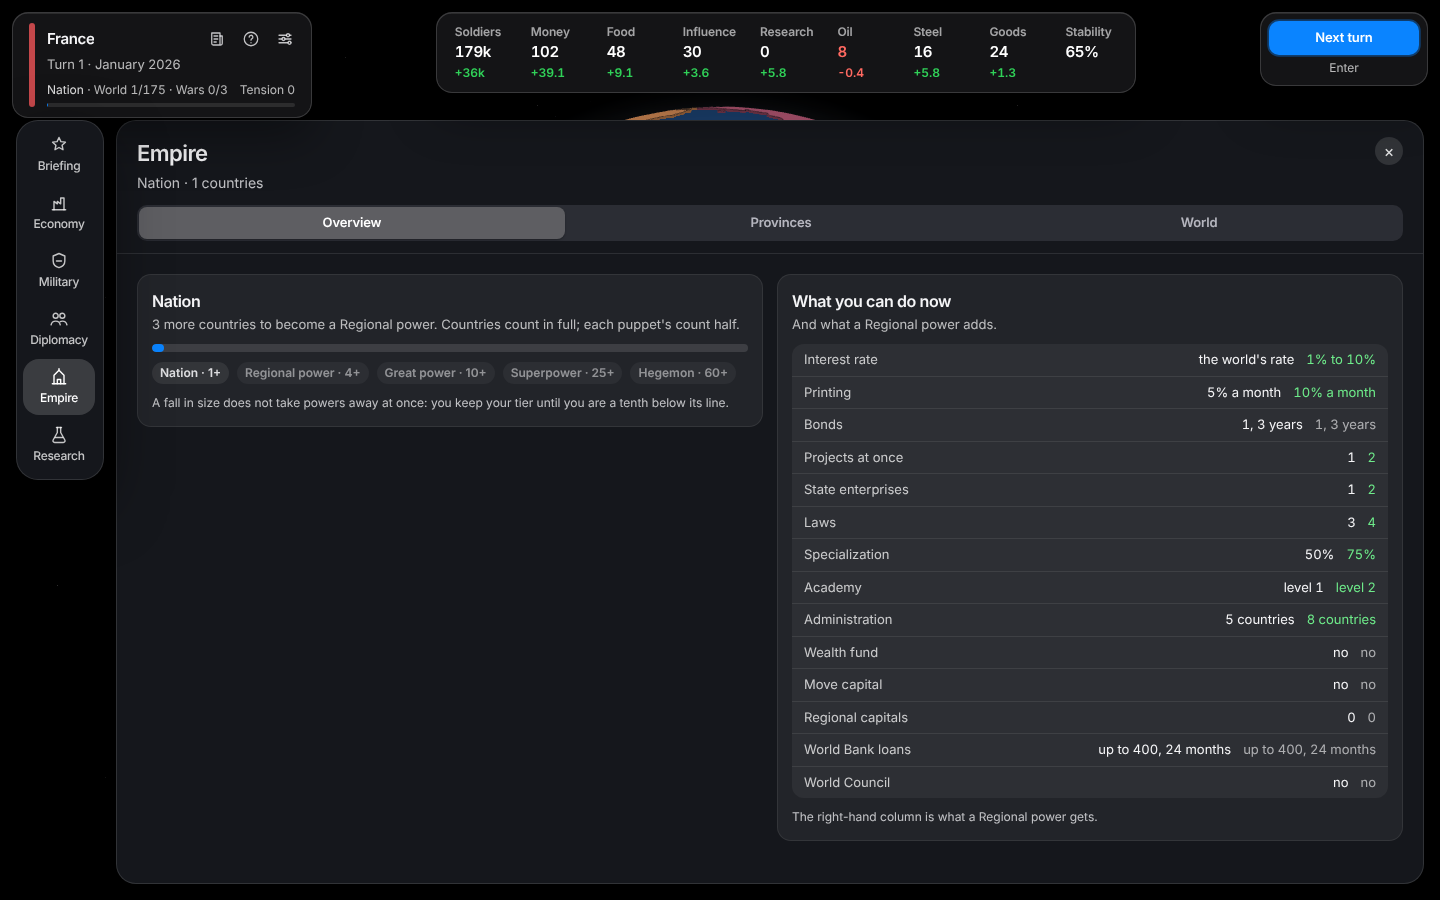
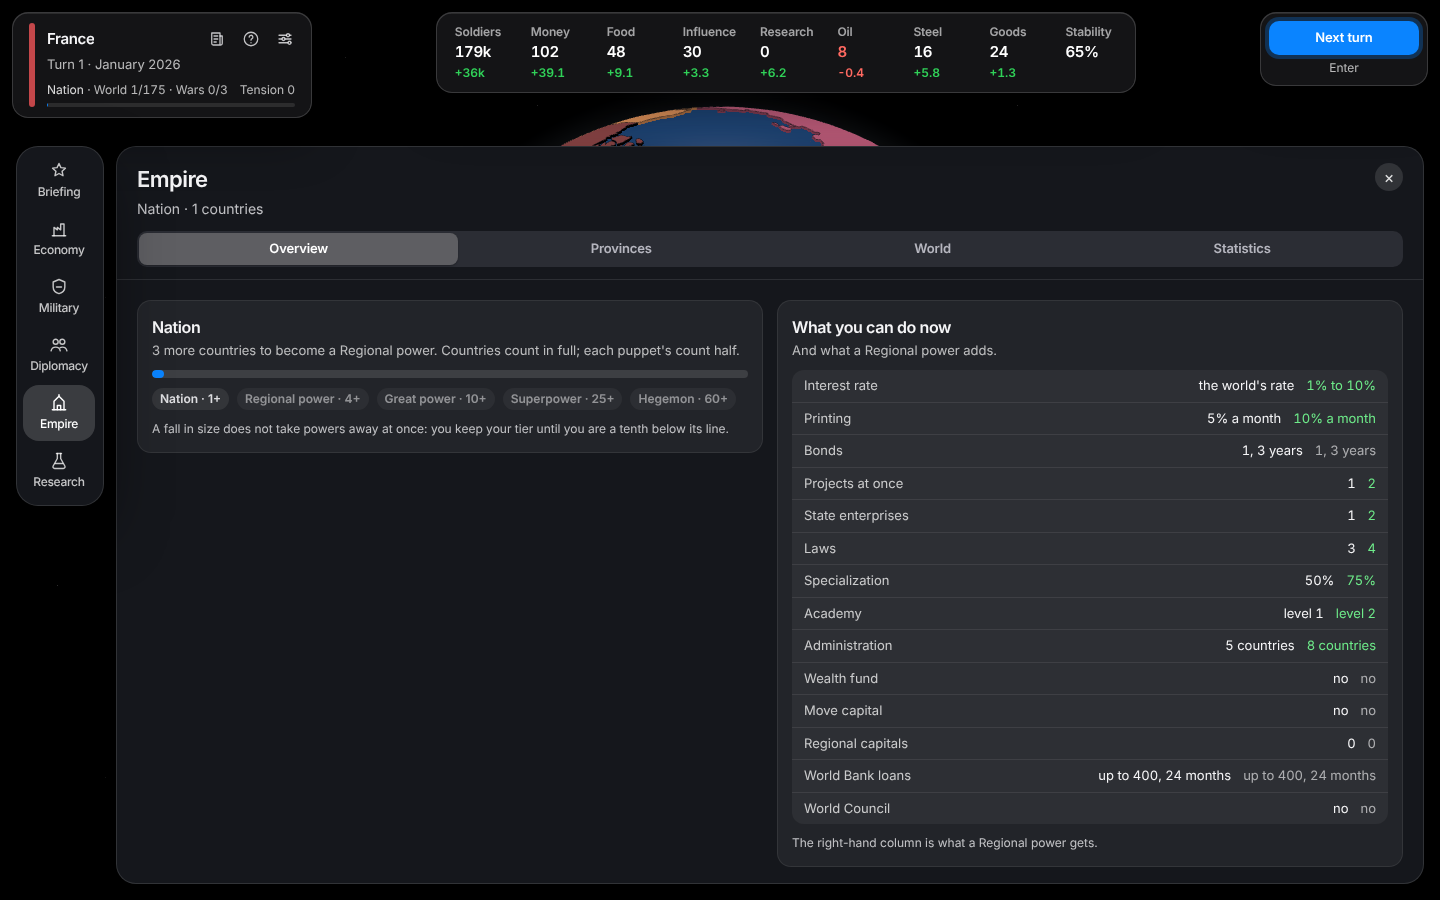
feat(ux): news centre, market quantities, train in batches, measured top bar, first-game help, toasts you can dismiss
- News: filter by kind, search, grouped by month.
- Market: any amount, fill to three months, steel on auto-buy.
- Train 1, 5 or 10 of a unit at once.
- The top bar's real height is measured, so desks sit right on any screen.
- The first game opens on how it works. Enter no longer ends the turn when a disclosure, tab or row has focus.
- Toasts have a close button.

Claude-Session: https://claude.ai/code/session_016d7Hru1WtnyadQAg5LsdtD

diff --git a/src/ui/economy/MarketTab.tsx b/src/ui/economy/MarketTab.tsx
@@ -1,3 +1,4 @@
+import { useState } from 'react'
 import { MATERIALS } from '../../data/deposits'
 import { MARKET } from '../../data/unitTypes'
 import { sanctionersOf } from '../../engine/helpers'
@@ -26,7 +27,6 @@ export function MarketTab() {
   const room = tradeRoom(game, map, player.id)
   const sanctioned = sanctionersOf(game, player.id)
   const net: Record<string, number> = { food: econ.netFood, oil: econ.netOil, steel: econ.steelProduction, goods: econ.netGoods }
-  const stock = (r: TradeResource) => player.resources[r as 'food']
 
   const toggleAuto = (r: TradeResource) => {
     const on = player.autoBuy.includes(r)
@@ -49,37 +49,59 @@ export function MarketTab() {
         <p className="text-[13px] text-white/65">The market keeps {Math.round((player.laws.includes('free_trade') ? MATERIALS.freeTradeSpread : MATERIALS.spread) * 100)}% of each trade.</p>
       </Card>
 
-      {MARKET_GOODS.map((r) => {
-        const have = stock(r)
-        const per = net[r] ?? 0
-        const buy = (amount: number) => ({ type: 'marketBuy' as const, nationId: player.id, resource: r, amount })
-        const sell = (amount: number) => ({ type: 'marketSell' as const, nationId: player.id, resource: r, amount })
-        return (
-          <Card key={r} title={MARKET[r].name} hint={NOTES[r]} right={<span className="text-[13px] text-white/75 tabular-nums">price {prices[r].toFixed(2)}</span>}>
-            <div className="flex items-baseline justify-between text-[14px]">
-              <span>
-                You have <strong className="tabular-nums">{have.toFixed(0)}</strong>
-              </span>
-              <span className={`tabular-nums ${per < 0 ? 'text-[#ff8a84]' : 'text-white/75'}`}>{signed(per)} a month</span>
-            </div>
-            <div className="grid grid-cols-2 gap-2">
-              <OrderButton order={buy(5)} label="Buy 5" cost={`${marketValue(game, player, r, 5, 'buy', prices).toFixed(0)} money`} tone="btn-primary" />
-              <OrderButton order={buy(20)} label="Buy 20" cost={`${marketValue(game, player, r, 20, 'buy', prices).toFixed(0)} money`} tone="btn-primary" />
-              <OrderButton order={sell(5)} label="Sell 5" cost={`+${marketValue(game, player, r, 5, 'sell', prices).toFixed(0)} money`} />
-              <OrderButton order={sell(20)} label="Sell 20" cost={`+${marketValue(game, player, r, 20, 'sell', prices).toFixed(0)} money`} />
-            </div>
-            {r !== 'steel' && (
-              <label className="flex items-center justify-between gap-3 text-[14px]">
-                <span>
-                  Buy it automatically when I run short
-                  <span className="block text-[12px] text-white/65">Keeps about {MATERIALS.autoBuyMonths} months in stock. Never spends your last 15 money.</span>
-                </span>
-                <input type="checkbox" checked={player.autoBuy.includes(r)} onChange={() => toggleAuto(r)} aria-label={`Buy ${MARKET[r].name} automatically`} />
-              </label>
-            )}
-          </Card>
-        )
-      })}
+      {MARKET_GOODS.map((r) => (
+        <MarketRow key={r} r={r} prices={prices} room={room} per={net[r] ?? 0} toggleAuto={toggleAuto} />
+      ))}
     </section>
+  )
+}
+
+function MarketRow({ r, prices, room, per, toggleAuto }: { r: TradeResource; prices: ReturnType<typeof marketPrices>; room: number; per: number; toggleAuto: (r: TradeResource) => void }) {
+  const view = usePlayerView()!
+  const { game, player, econ } = view
+  const [amount, setAmount] = useState(10)
+  const have = player.resources[r as 'food']
+  const buy = (n: number) => ({ type: 'marketBuy' as const, nationId: player.id, resource: r, amount: n })
+  const sell = (n: number) => ({ type: 'marketSell' as const, nationId: player.id, resource: r, amount: n })
+  // Months of use the stock covers, and how much would fill it to three months.
+  const use = r === 'food' ? econ.foodConsumption : r === 'oil' ? econ.oilUse : r === 'goods' ? econ.goodsUse : 0
+  const toThree = Math.max(0, Math.ceil(use * 3 - have))
+  const custom = Math.max(1, Math.min(9999, Math.floor(amount) || 1))
+  return (
+    <Card title={MARKET[r].name} hint={NOTES[r]} right={<span className="text-[13px] text-white/75 tabular-nums">price {prices[r].toFixed(2)}</span>}>
+      <div className="flex items-baseline justify-between text-[14px]">
+        <span>
+          You have <strong className="tabular-nums">{have.toFixed(0)}</strong>
+          {use > 0 && <span className="text-white/60"> · {(have / use).toFixed(1)} months of use</span>}
+        </span>
+        <span className={`tabular-nums ${per < 0 ? 'text-[#ff8a84]' : 'text-white/75'}`}>{signed(per)} a month</span>
+      </div>
+      <div className="grid grid-cols-2 gap-2">
+        <OrderButton order={buy(5)} label="Buy 5" cost={`${marketValue(game, player, r, 5, 'buy', prices).toFixed(0)} money`} tone="btn-primary" />
+        <OrderButton order={buy(20)} label="Buy 20" cost={`${marketValue(game, player, r, 20, 'buy', prices).toFixed(0)} money`} tone="btn-primary" />
+        <OrderButton order={sell(5)} label="Sell 5" cost={`+${marketValue(game, player, r, 5, 'sell', prices).toFixed(0)} money`} />
+        <OrderButton order={sell(20)} label="Sell 20" cost={`+${marketValue(game, player, r, 20, 'sell', prices).toFixed(0)} money`} />
+      </div>
+      <div className="flex items-center gap-2">
+        <label className="flex items-center gap-2 text-[13px] text-white/75">
+          Amount
+          <input type="number" min={1} max={9999} step={1} className="field w-24 px-2 py-1.5 text-[14px] tabular-nums" value={amount} onChange={(e) => setAmount(+e.target.value)} aria-label={`Amount of ${MARKET[r].name} to trade`} />
+        </label>
+        <OrderButton order={buy(custom)} label={`Buy ${custom}`} cost={`${marketValue(game, player, r, custom, 'buy', prices).toFixed(0)}`} tone="btn-primary" className="flex-1" />
+        <OrderButton order={sell(custom)} label={`Sell ${custom}`} cost={`+${marketValue(game, player, r, custom, 'sell', prices).toFixed(0)}`} className="flex-1" />
+      </div>
+      {toThree > 0 && (
+        <OrderButton order={buy(Math.min(toThree, Math.floor(room)))} label={`Fill to 3 months`} effect={`${Math.min(toThree, Math.floor(room))} of ${toThree} that would be needed (trade room ${room.toFixed(0)})`} />
+      )}
+      <label className="flex items-center justify-between gap-3 text-[14px]">
+        <span>
+          Buy it automatically when I run short
+          <span className="block text-[12px] text-white/65">
+            {r === 'steel' ? `Keeps ${MATERIALS.steelReserve} in store for building and training.` : `Keeps about ${MATERIALS.autoBuyMonths} months in stock.`} Never spends your last 15 money, and honors an embargo.
+          </span>
+        </span>
+        <input type="checkbox" checked={player.autoBuy.includes(r)} onChange={() => toggleAuto(r)} aria-label={`Buy ${MARKET[r].name} automatically`} />
+      </label>
+    </Card>
   )
 }

diff --git a/src/ui/SidePanels.tsx b/src/ui/SidePanels.tsx
@@ -22,12 +22,35 @@ const KIND_COLOR: Record<LogKind, string> = {
   diplomacy: 'text-sky-200',
 }
 
+const NEWS_FILTERS: [string, string, LogKind[] | null][] = [
+  ['all', 'All', null],
+  ['war', 'War', ['war', 'battle']],
+  ['diplomacy', 'Diplomacy', ['diplomacy']],
+  ['economy', 'Economy', ['economy', 'tech']],
+  ['events', 'Events', ['event', 'news', 'spy']],
+]
+
+/** The news: your nation's or the world's, by kind, searchable, grouped by month. */
 export function LogPanel() {
   const view = usePlayerView()
   const [scope, setScope] = useState<'mine' | 'world'>('mine')
+  const [kind, setKind] = useState('all')
+  const [query, setQuery] = useState('')
   if (!view) return null
   const { game, player } = view
-  const entries = game.log.filter((l) => scope === 'world' || l.nations.includes(player.id)).slice(-120).reverse()
+  const live = isLive(game)
+  const kinds = NEWS_FILTERS.find((f) => f[0] === kind)?.[2] ?? null
+  const q = query.trim().toLowerCase()
+  const entries = game.log
+    .filter((l) => (scope === 'world' || l.nations.includes(player.id)) && (!kinds || kinds.includes(l.kind)) && (!q || l.text.toLowerCase().includes(q)))
+    .slice(-200)
+    .reverse()
+  const groups: { turn: number; items: typeof entries }[] = []
+  for (const l of entries) {
+    const g = groups[groups.length - 1]
+    if (g && g.turn === l.turn) g.items.push(l)
+    else groups.push({ turn: l.turn, items: [l] })
+  }
   return (
     <PanelShell title="News" kicker="What has happened lately" panel="log">
       <div className="segmented">
@@ -38,13 +61,28 @@ export function LogPanel() {
           The world
         </button>
       </div>
-      <div className="space-y-1.5">
-        {entries.length === 0 && <p className="text-sm text-slate-500">No dispatches yet.</p>}
-        {entries.map((l, i) => (
-          <div key={i} className="text-sm border-l-2 border-slate-700 pl-2">
-            <span className="text-[10px] text-slate-500 font-display mr-2">{l.day !== undefined ? dayDate(l.turn, l.day) : turnDate(l.turn)}</span>
-            <span className={KIND_COLOR[l.kind]}>{l.text}</span>
-          </div>
+      <div className="flex flex-wrap items-center gap-2">
+        <input className="field px-3 py-2 text-[14px] flex-1 min-w-36" placeholder="Search the news" aria-label="Search the news" value={query} onChange={(e) => setQuery(e.target.value)} />
+        <div className="flex flex-wrap gap-1" role="radiogroup" aria-label="Kind of news">
+          {NEWS_FILTERS.map(([k, name]) => (
+            <button key={k} role="radio" aria-checked={kind === k} className={`btn px-2.5 py-1.5 text-[13px] ${kind === k ? 'btn-primary' : 'btn-quiet'}`} onClick={() => setKind(k)}>
+              {name}
+            </button>
+          ))}
+        </div>
+      </div>
+      <div className="space-y-3">
+        {groups.length === 0 && <p className="text-sm text-white/55">{q || kind !== 'all' ? 'Nothing matches.' : 'No dispatches yet.'}</p>}
+        {groups.map((g) => (
+          <section key={g.turn} className="space-y-1.5">
+            <h3 className="label sticky top-0 bg-[#1c1c20]/95 py-1 z-10">{turnDate(g.turn)}</h3>
+            {g.items.map((l, i) => (
+              <div key={i} className="text-sm border-l-2 border-white/15 pl-2">
+                {live && l.day !== undefined && <span className="text-[11px] text-white/50 mr-2">{dayDate(l.turn, l.day).split(' ').slice(0, 2).join(' ')}</span>}
+                <span className={KIND_COLOR[l.kind]}>{l.text}</span>
+              </div>
+            ))}
+          </section>
         ))}
       </div>
     </PanelShell>

diff --git a/src/ui/MilitaryPanel.tsx b/src/ui/MilitaryPanel.tsx
@@ -1,3 +1,4 @@
+import { useState } from 'react'
 import { TRAINING, UNIT_SPECS, WEAPONS, trainingCost, trainingRank, weaponCost } from '../data/unitTypes'
 import { nextWeaponLevel } from '../engine/arms'
 import { enemiesOf, formatDivisions, maxWars } from '../engine/helpers'
@@ -23,6 +24,9 @@ const pct = (v: number) => `${v >= 0 ? '+' : ''}${Math.round(v * 100)}%`
 function UnitCard({ line }: { line: UnitStatLine }) {
   const view = usePlayerView()!
   const { game, player } = view
+  const [batch, setBatch] = useState(1)
+  const issueBatch = useGame((st) => st.issueBatch)
+  const toast = useGame((st) => st.toast)
   const spec = UNIT_SPECS[line.unit]
   const weapons = nextWeaponLevel(game, player.id, line.unit)
   const bonusAttack = line.attack / line.baseAttack - 1
@@ -69,6 +73,28 @@ function UnitCard({ line }: { line: UnitStatLine }) {
           Drill <Pips value={line.drillRank} max={TRAINING.max} />
           <span className="text-white/70">{trainingRank(line.drillRank)}</span>
         </span>
+      </div>
+
+      <div className="flex items-center gap-1.5 text-[13px]" role="group" aria-label={`How many ${line.name} to train at once`}>
+        <span className="text-white/65">Train</span>
+        {[1, 5, 10].map((n) => (
+          <button key={n} className={`btn px-2.5 py-1 text-[13px] ${batch === n ? 'btn-primary' : 'btn-quiet'}`} aria-pressed={batch === n} onClick={() => setBatch(n)}>
+            {n}
+          </button>
+        ))}
+        {batch > 1 && (
+          <button
+            className="btn btn-primary px-3 py-1 text-[13px] ml-auto"
+            title={`Queue ${batch} ${line.name} until the queue is full or you run out of money, soldiers or steel`}
+            onClick={() => {
+              const order = { type: 'queueTrain' as const, nationId: player.id, unit: line.unit }
+              const { done, failed } = issueBatch(Array.from({ length: batch }, () => order))
+              if (done > 0 && failed > 0) toast(`${done} queued; the rest could not be: the queue, money, soldiers or steel ran out.`, 'info')
+            }}
+          >
+            Queue {batch}
+          </button>
+        )}
       </div>
 
       <div className="unit-actions">

diff --git a/src/ui/HUD.tsx b/src/ui/HUD.tsx
@@ -138,6 +138,23 @@ export function HUD() {
   const setHelp = useGame((s) => s.setHelp)
   const panel = useGame((s) => s.panel)
   const top = useAdvice(1)[0]
+  const wrap = useRef<HTMLDivElement>(null)
+  const has = !!view
+  // Desks, cards and docks sit below the top bar: tell the stylesheet how tall it really is, whatever the screen and mode.
+  useEffect(() => {
+    const el = wrap.current
+    if (!el) return
+    const root = document.documentElement
+    const set = () => root.style.setProperty('--hud-h', `${Math.ceil(el.getBoundingClientRect().height)}px`)
+    set()
+    if (typeof ResizeObserver === 'undefined') return
+    const ro = new ResizeObserver(set)
+    ro.observe(el)
+    return () => {
+      ro.disconnect()
+      root.style.removeProperty('--hud-h')
+    }
+  }, [has])
   if (!view) return null
   const { game, player, econ, committed, orders } = view
   const live = isLive(game)
@@ -153,7 +170,7 @@ export function HUD() {
   const civic = econ.buildings.civic
 
   return (
-    <div className="absolute top-0 inset-x-0 z-30 p-3 pointer-events-none">
+    <div ref={wrap} className="absolute top-0 inset-x-0 z-30 p-3 pointer-events-none">
       <div className="hud-row">
         <div className="glass rounded-2xl px-4 py-2.5 pointer-events-auto flex items-center gap-3 min-w-56">
           <div className="w-1.5 self-stretch rounded-full" style={{ background: player.color }} />

diff --git a/src/ui/Chrome.tsx b/src/ui/Chrome.tsx
@@ -105,11 +105,13 @@ export function Toasts() {
             initial={{ x: 40, opacity: 0 }}
             animate={{ x: 0, opacity: 1 }}
             exit={{ x: 40, opacity: 0 }}
-            onClick={() => dismiss(t.id)}
             role={t.tone === 'error' ? 'alert' : 'status'}
-            className={`pointer-events-auto surface rounded-2xl px-4 py-3 text-[14px] cursor-pointer max-w-sm ${t.tone === 'error' ? 'text-[#ff8a84]' : t.tone === 'success' ? 'text-[#6eeb8a]' : ''}`}
+            className={`pointer-events-auto surface rounded-2xl pl-4 pr-1.5 py-2.5 text-[14px] max-w-sm flex items-start gap-2 ${t.tone === 'error' ? 'text-[#ff8a84]' : t.tone === 'success' ? 'text-[#6eeb8a]' : ''}`}
           >
-            {t.text}
+            <span className="flex-1 min-w-0 py-0.5">{t.text}</span>
+            <button className="shrink-0 w-8 h-8 rounded-full text-white/60 hover:text-white hover:bg-white/10 text-[18px] leading-none" aria-label="Dismiss" onClick={() => dismiss(t.id)}>
+              ×
+            </button>
           </motion.div>
         ))}
       </AnimatePresence>

diff --git a/src/ui/Palette.tsx b/src/ui/Palette.tsx
@@ -54,7 +54,7 @@ function PaletteBody() {
     requestAnimationFrame(() => input.current?.focus())
   }, [])
 
-  const items = useMemo<Item[]>(() => {
+  const [items] = useState<Item[]>(() => {
     const st = useGame.getState()
     const game = st.game
     if (!game) return []
@@ -96,7 +96,7 @@ function PaletteBody() {
     if (st.undoStack.length > 0) out.push({ id: 'd-undo', label: `Undo: ${st.undoStack[st.undoStack.length - 1].label}`, hint: 'Ctrl+Z', group: 'Do', run: () => st.undo() })
     out.push({ id: 'd-capital', label: 'Go to your capital', hint: '', group: 'Go to', run: goTo(game.nations[game.playerId].capital) })
     return out
-  }, [])
+  })
 
   const shown = useMemo(() => {
     const words = query.trim().toLowerCase().split(/\s+/).filter(Boolean)

diff --git a/src/App.tsx b/src/App.tsx
@@ -57,8 +57,8 @@ function useShortcuts() {
         if (st.panel !== 'none') st.setPanel(st.panel)
         else st.selectRegion(null)
       } else if (e.key === 'Enter') {
-        // A focused button uses Enter for itself.
-        if (target.tagName === 'BUTTON' || e.repeat) return
+        // A focused button, a disclosure, a tab or a row uses Enter for itself.
+        if (target.tagName === 'BUTTON' || target.tagName === 'SUMMARY' || target.tagName === 'A' || target.closest('[role="button"], [role="tab"], [role="option"], [role="radio"], summary') || e.repeat) return
         e.preventDefault()
         st.endTurn()
       } else if (e.key === ' ' && isLive(st.game)) {

diff --git a/src/ui/Setup.tsx b/src/ui/Setup.tsx
@@ -155,6 +155,8 @@ export function Setup() {
               if (!pick) return
               if (hasSave && !window.confirm(`Starting a new game replaces your saved game${saved ? ` (${saved.nation}, ${saved.date})` : ''}. Start anyway?`)) return
               newGame({ playerRegionId: pick.id, seed, difficulty, mode })
+              // The first game opens on how it works. Closing the window remembers that it was seen.
+              if (!useGame.getState().settings.seenHelp) useGame.getState().setHelp(true)
             }}
           >
             Start game
